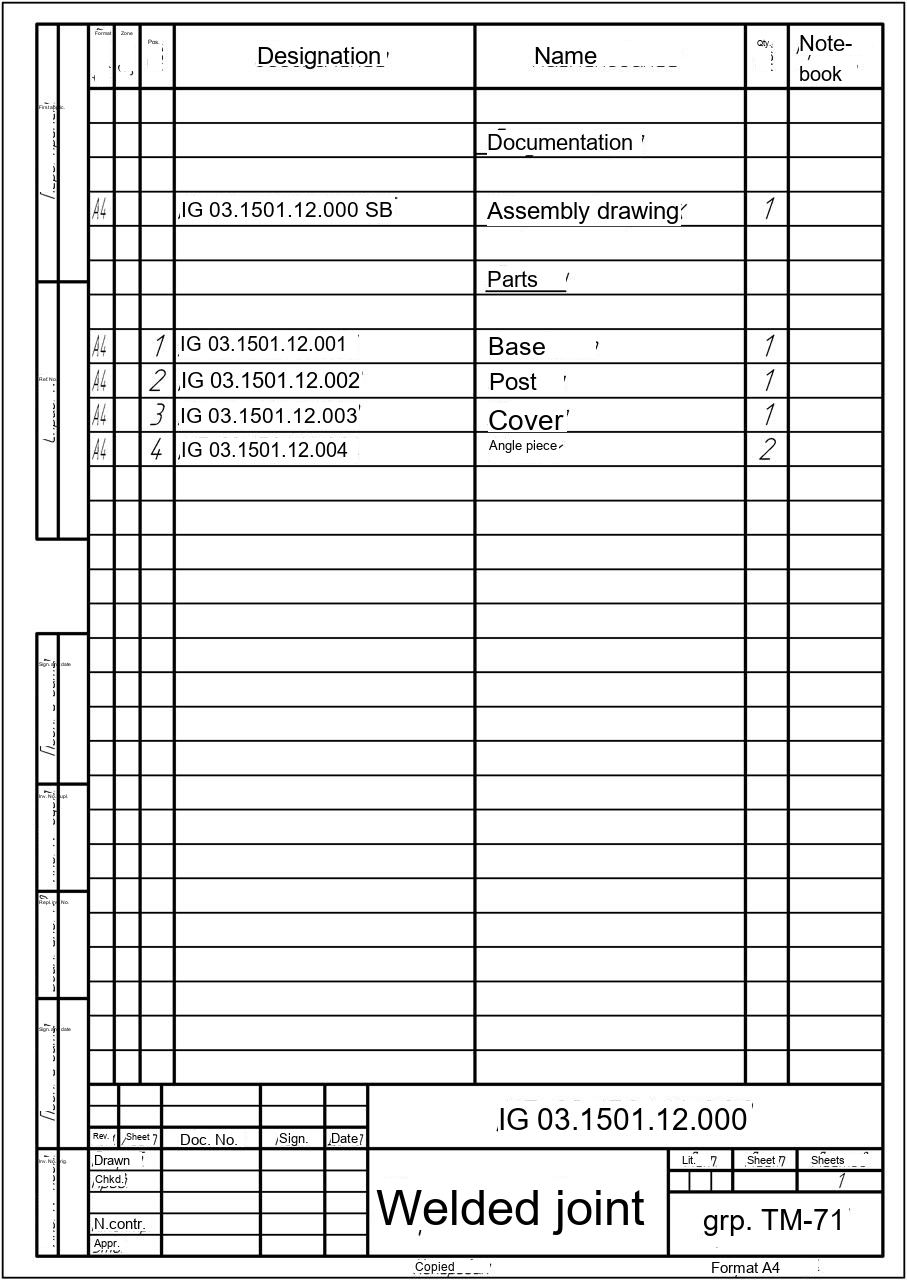
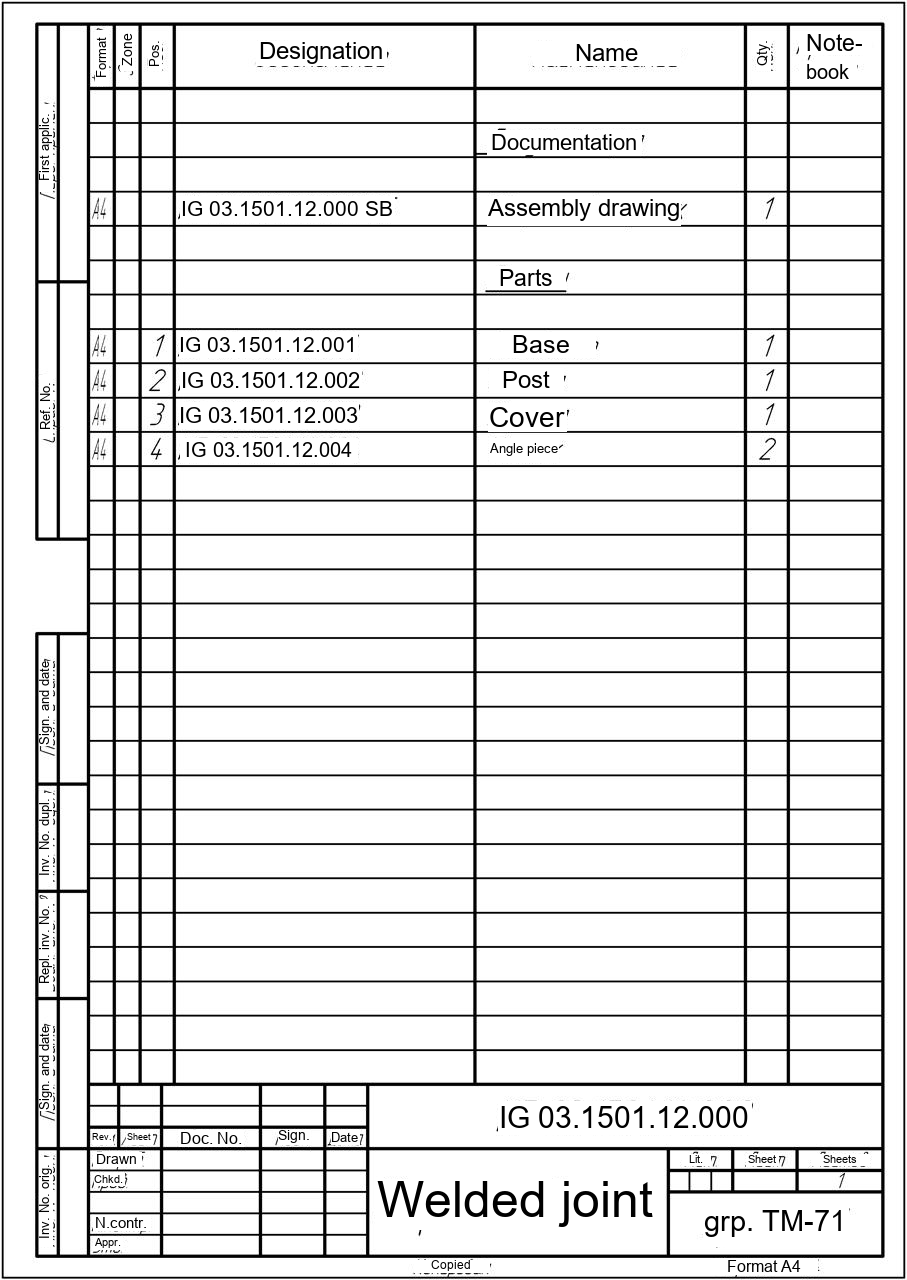
feat: handle rotated text not polished, BUT works correctly (loop TBD)

diff --git a/translate.py b/translate.py
@@ -117,27 +117,47 @@ def fit_font(text, max_w, max_h):
     return ImageFont.truetype(str(FONT_PATH), 5)
 
 
+def paste_text(img, text, box, orientation):
+    x0, y0, x1, y1 = [int(v) for v in box]
+    bw, bh = max(x1 - x0, 1), max(y1 - y0, 1)
+
+    if orientation == "vertical":
+        font = fit_font(text, bh, bw)
+        angle = 90
+    elif orientation == "upside_down":
+        font = fit_font(text, bw, bh)
+        angle = 180
+    else:
+        font = fit_font(text, bw, bh)
+        angle = 0
+
+    l, t, r, b = font.getbbox(text)
+    tw, th = max(r - l, 1), max(b - t, 1)
+    layer = Image.new("RGBA", (tw, th), (0, 0, 0, 0))
+    ImageDraw.Draw(layer).text((-l, -t), text, fill="black", font=font)
+    if angle:
+        layer = layer.rotate(angle, expand=True)
+
+    px = x0 + (bw - layer.width) // 2
+    py = y0 + (bh - layer.height) // 2
+    img.paste(layer, (px, py), layer)
+
+
 def render_english():
     items = json.loads(OUTPUT_PATH.read_text(encoding="utf-8"))
-    img = Image.open(INPUT_PATH).convert("RGB")
+    img = Image.open(INPUT_PATH).convert("RGBA")
     draw = ImageDraw.Draw(img)
     w, h = img.size
 
     for item in items:
         if "box" not in item or not item.get("text_en"):
             continue
-        x0, y0, x1, y1 = box_to_pixels(item["box"], w, h)
-        draw.rectangle([x0, y0, x1, y1], fill="white")
-
-        # vertical / upside_down later — horizontal for now
-        text = item["text_en"]
-        max_w = max(x1 - x0, 1)
-        max_h = max(y1 - y0, 1)
-        font = fit_font(text, max_w, max_h)
-        draw.text((x0, y0), text, fill="black", font=font)
+        box = box_to_pixels(item["box"], w, h)
+        draw.rectangle(box, fill="white")
+        paste_text(img, item["text_en"], box, item.get("orientation", "horizontal"))
 
     EN_PATH.parent.mkdir(exist_ok=True)
-    img.save(EN_PATH)
+    img.convert("RGB").save(EN_PATH)
     print(f"saved english image to {EN_PATH}")
 
 
